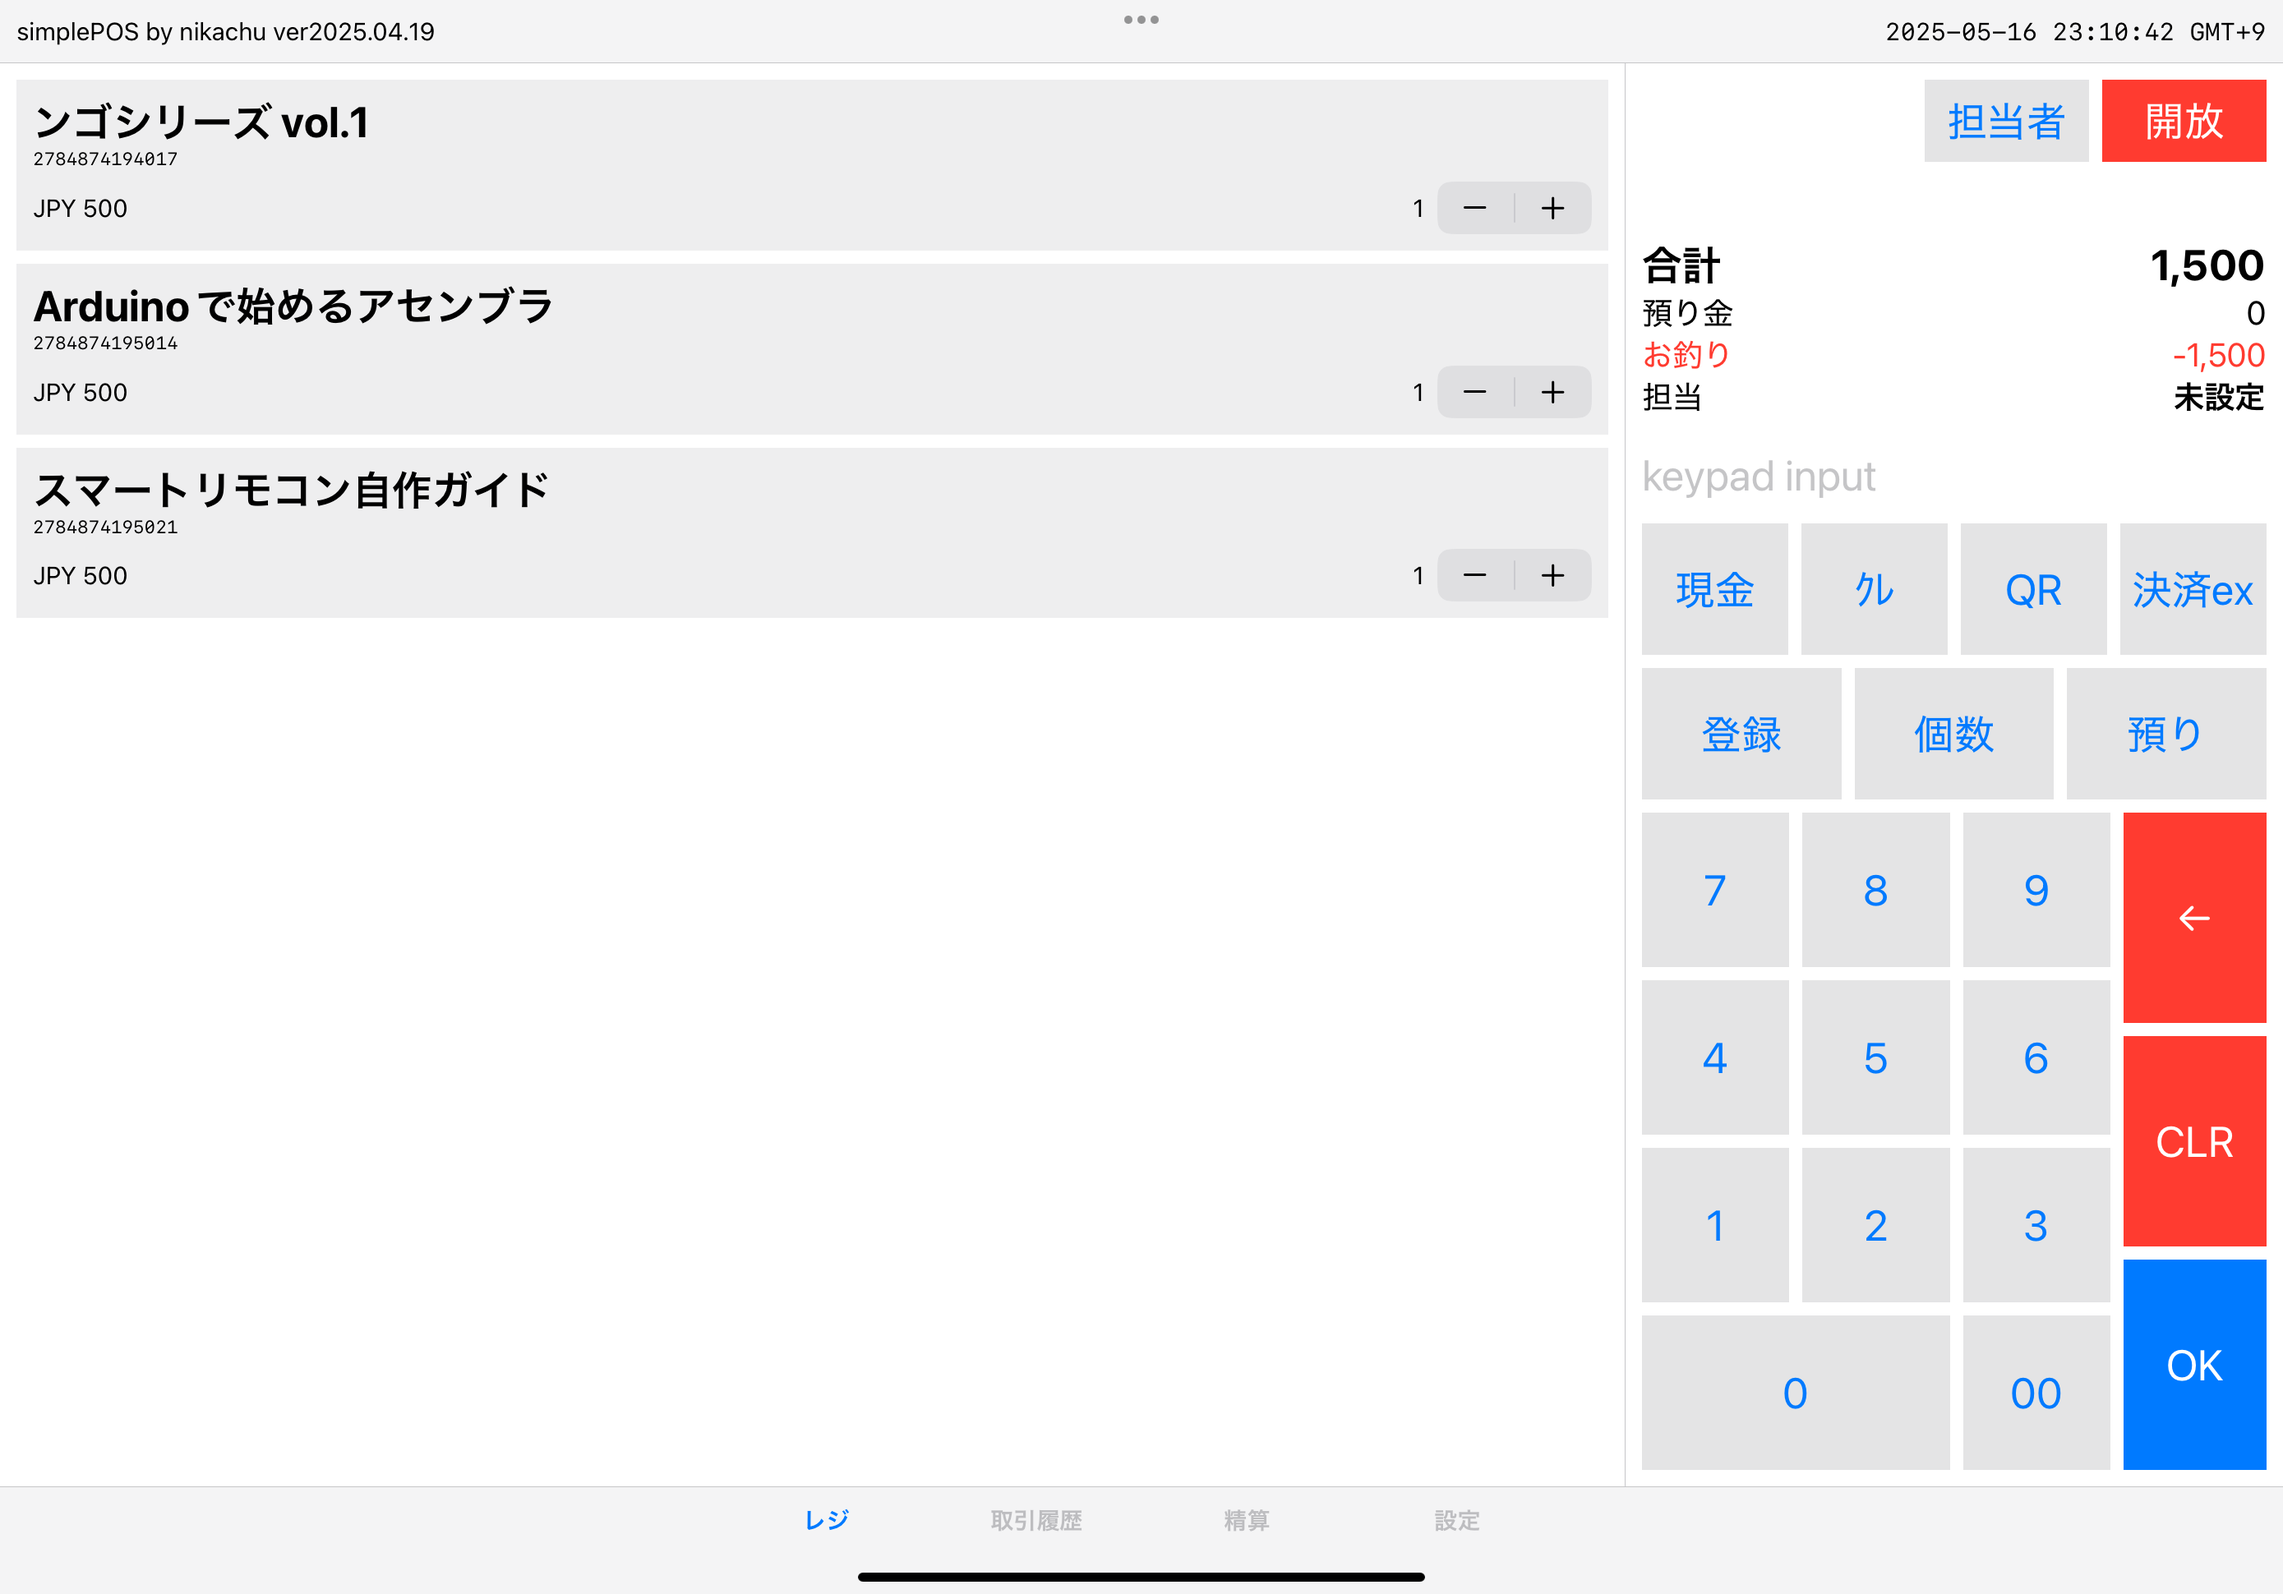
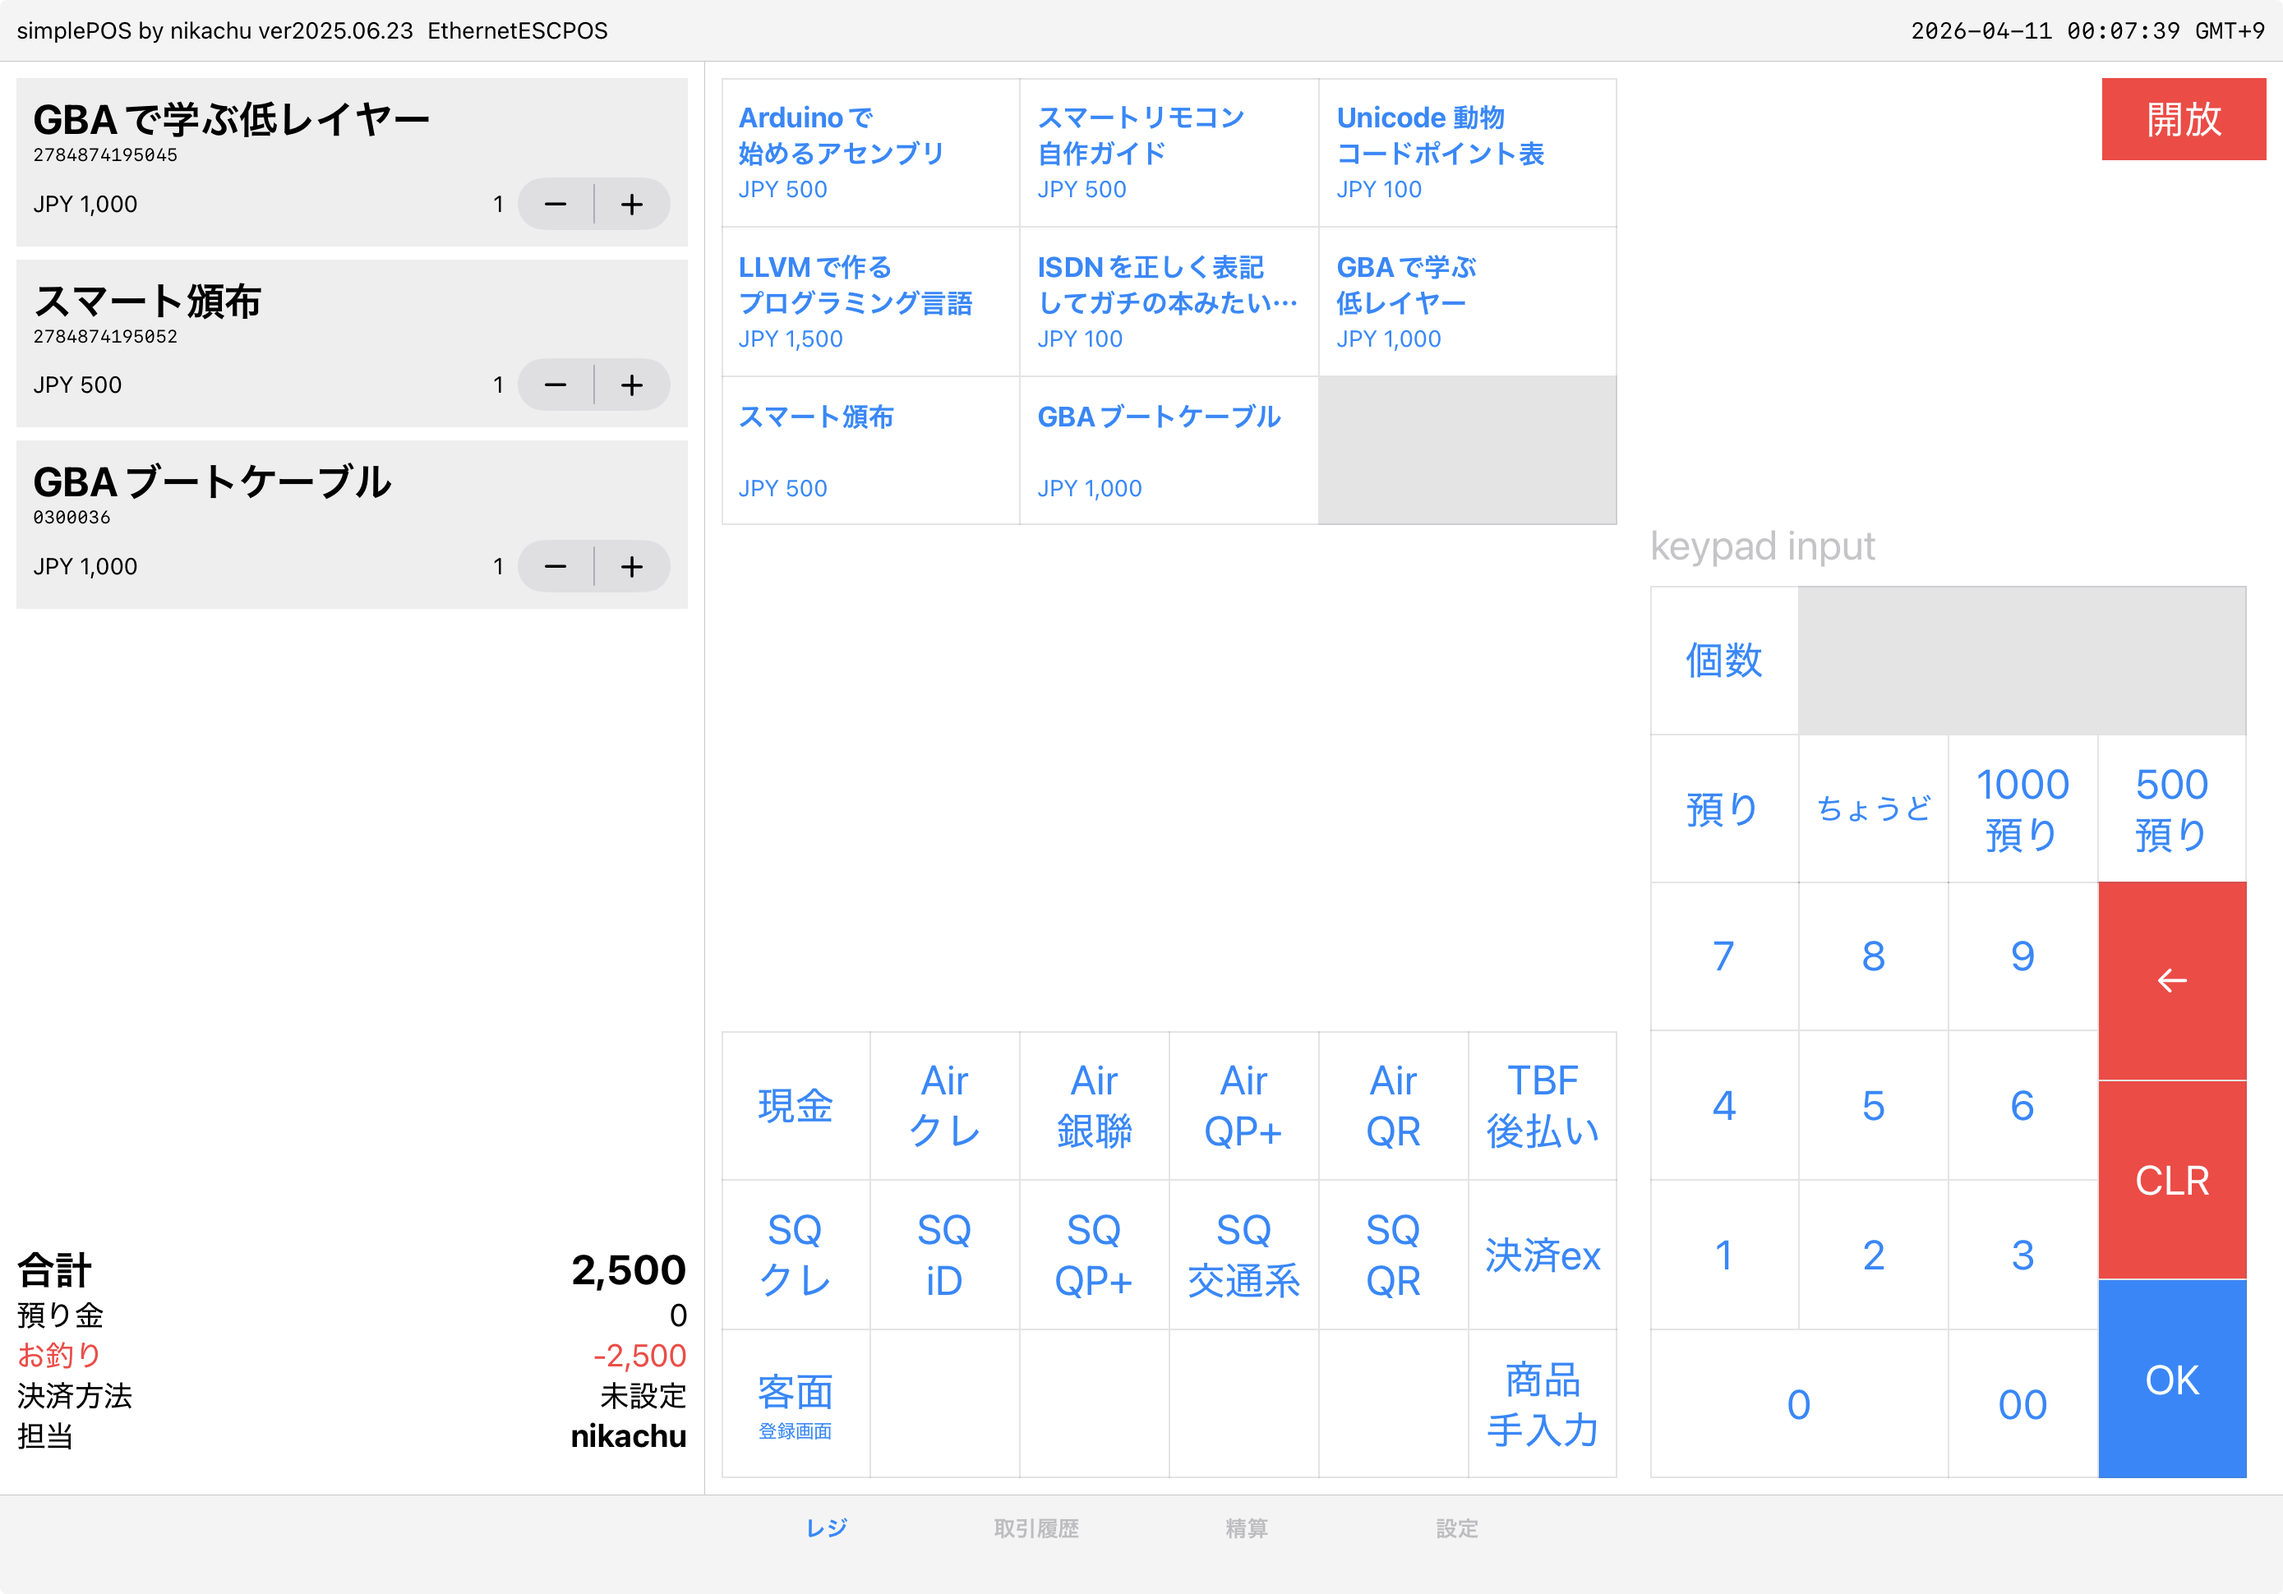
[update] 文章を最新のPOSに準拠した形に修正

diff --git a/app/(default)/forclerk/pos/page.tsx b/app/(default)/forclerk/pos/page.tsx
@@ -3,15 +3,17 @@ import HeaderFooter from "@/components/HeaderFooter";
 import Image from "next/image";
 
 import posBasicView from "./pos_basic_view.png";
-import nameTag from "./nametag.jpg";
 import readBarcode from "./read_barcode.jpg";
 import posAddItemView from "./pos_additem_view.png";
 import posAddedItem from "./pos_added_view.png";
-import paymentEx from "./paymentex.jpg";
-import azukari from "./azukari.jpg"
+import paymentMethod from "./paymentmethod.png"
+import paymentEx from "./paymentex.png";
+import azukari from "./azukari.png"
 import checkout1 from "./checkout1.jpeg"
 import airpay_credit from "./airpay_credit.png"
 import airpay_qr from "./airpay_qr.png"
+import square_kessai from "./square_kessai.jpg"
+
 import GetDateISO8601String from "@/utils/GetDateISO8601String";
 import { Metadata } from "next";
 
@@ -26,7 +28,7 @@ export default function Home() {
                 <div>
                     <h1 className="text-4xl font-bold">POSの操作方法</h1>
                     <div className="flex gap-2 flex-wrap">
-                        <span className="font-mono">{GetDateISO8601String(new Date())}</span>
+                        <span className="font-mono">{GetDateISO8601String(new Date("2026-04-11T00:30:12+09:00"))}</span>
                         <span>by nikachu</span>
                     </div>
                 </div>
@@ -61,19 +63,9 @@ export default function Home() {
                         とりあえずお客様に商品を提供できるところまでの操作を解説します。
                     </p>
 
-                    <h3 className="font-bold">担当者の登録</h3>
-
-                    <p>
-                        名札にあるQRコードをリーダで読み取るか、担当者ボタンを押した後、担当者名を選択します。名札の2025/05/17時点でのサンプルを以下に示します。
-                    </p>
-
-                    <div className="flex justify-center">
-                        <Image src={nameTag} alt={"nikatechの名札"} width={500} className="shadow" />
-                    </div>
-
                     <h3 className="font-bold">商品の登録</h3>
                     <p>
-                        商品についているバーコードを読み取るか、登録ボタンを押した後商品のボタンを押します。
+                        商品についているバーコードを読み取るか、画面上部の商品ボタンを押します。
                     </p>
                     <div className="flex justify-center">
                         <Image src={readBarcode} alt={"バーコードを読み取る"} width={400} className="shadow" />
@@ -82,15 +74,14 @@ export default function Home() {
                         <Image src={posAddItemView} alt={"POSのアイテム登録画面"} width={700} className="shadow" />
                     </div>
                     <div className="bg-yellow-200 border border-yellow-400 p-2 rounded">
-                        バーコードは登録ボタンを押した後でなくても読み取り可能です。<br />
-                        書籍のような２段バーコードの場合は上を読み取ることをお勧めします。<br />
+                        書籍のような２段バーコードの場合は上段を読み取ってください。<br />
                     </div>
                     <p>
                         複数個の登録は、直前に追加された商品の場合は、個数ボタン→キーパッドで数値を入力→<span className="text-blue-600">OK</span>で個数を増やせます。
                         それ以外の場合は一旦登録ボタンを押して登録状態を解除した後、商品名の右にあるボタンで増減できます。
                     </p>
                     <p>
-                        商品を登録し、登録状態を解除すると以下のような画面になります。
+                        商品を登録すると以下のような感じの画面になります。
                     </p>
                     <div className="flex justify-center">
                         <Image src={posAddedItem} alt={"登録済み画面"} width={700} className="shadow" />
@@ -99,17 +90,17 @@ export default function Home() {
                     <h3 className="font-bold">決済方法の指定</h3>
                     <p>
                         お客様から伺った決済方法をPOSに入力します。<br />
-                        現金、クレジット（銀聯除く）、QRコード決済は基本画面から直接入力可能です。それ以外の決済方法の場合は決済ex→決済方法の順に選択してください。
+                        基本的にSQとついている方を優先的に選択してください。ただし、QRコード決済はAirQRを選択してください。
                     </p>
 
+                    <div className="flex justify-center">
+                        <Image src={paymentMethod} alt={"決済方法"} width={700} className="shadow" />
+                    </div>
                     <p>
-                        お客様に「銀聯（ぎんれん）で」と言われた場合は、「ｸﾚ」ではなく決済ex→銀聯(Airペイ)を選択してください。
+                        それ以外の決済方法の場合は決済ex→決済方法の順に選択してください。
                     </p>
                     <div className="flex justify-center">
-                        <Image src={paymentEx} alt={"決済方法"} width={300} className="shadow" />
-                    </div>
-                    <div className="bg-red-200 border border-red-400 p-2 rounded">
-                        決済exから選択する場合、クレジット、銀聯、QRコードは&quot;（Airペイ）&quot;がついているものにしてください。
+                        <Image src={paymentEx} alt={"決済方法"} width={700} className="shadow" />
                     </div>
 
                     <h3 className="font-bold">預かり金の入力</h3>
@@ -121,25 +112,37 @@ export default function Home() {
                         <Image src={azukari} alt={"預かり金の入力"} width={300} className="shadow" />
                     </div>
                     <p>
+                        預かり金がちょうどの場合、1000円、500円の場合はそのキーを押すことで１発で入力できます。
+                    </p>
+                    <p>
                         また、預りボタンを押した後、キーパッドに何も打たずOKを押すと預かり金は合計金額と同じになります（お釣りが0になる）。
                     </p>
                     <p>
                         現金以外の決済方法では、預り金が未入力（上部預り金表示が0）でもチェックアウト（後述）することができます。
                     </p>
 
+
                     <h3 className="font-bold">チェックアウト</h3>
                     <p>
                         チェックアウトは入力した情報を確定し、データベースへ書き込む操作のことです。<br />
-                        登録、個数、預りのいずれの状態でもない時に<span className="text-blue-600">OK</span>を押すとチェックアウトへ進むことができます。
+                        個数、預りのいずれの状態でもない時に<span className="text-blue-600">OK</span>を押すとチェックアウトへ進むことができます。
                     </p>
                     <div className="flex justify-center">
                         <Image src={checkout1} alt={"チェックアウト"} width={300} className="shadow" />
                     </div>
                     <p>
                         現金の場合はお釣りが表示されるので、お釣りを用意します。<br />
-                        （Airペイ）のついたクレジット、QRコード決済の場合は自動で決済アプリへ遷移します。<br />
-                        それ以外のキャッシュレス決済の場合は、別途決済端末を操作して決済を行います。
+                        Airペイ（Air）のついたクレジット、QRコード決済の場合は自動で決済アプリへ遷移します。<br />
+                        Square（SQ）の付いた決済方法の場合は自動で決済端末が起動します。決済ステータスが<span className="text-green-600">成功</span>になるまで待ってください。<br />
+                        それ以外のキャッシュレス決済を指定された場合は、代表を呼んでください。
                     </p>
+
+                    <p>
+                        Squareの場合は決済端末（Squareターミナル）が起動するので、お客様に決済をお願いしてください。
+                    </p>
+                    <div className="flex justify-center">
+                        <Image src={square_kessai} alt={"Squareターミナルの画面"} width={400} className="shadow" />
+                    </div>
 
                     <p>
                         Airペイは自動で以下のような画面になるので、お客様に決済をお願いしてください。<br />
@@ -156,13 +159,13 @@ export default function Home() {
                         特にお客様から領収書の要望がなければ、レシート印刷ボタンを押してレシートを印刷します。印刷が止まったら切り取って商品と共に渡してください。<br />
                     </p>
                     <div className="bg-red-200 border border-red-400 p-2 rounded">
-                        クレジット、QRコードでの決済時にはお客様控えが印刷されます。必ず切り取ってからレシートを印刷してください。
+                        Airペイでの決済時にはお客様控えが印刷されます。必ず切り取ってからレシートを印刷してください。
                     </div>
                     <div className="bg-yellow-200 border border-yellow-400 p-2 rounded">
                         領収書ボタンで領収書を印刷できます。レシートと領収書はどちらか一方しか発行できません（片方を発行するとボタンが押せなくなります）。
                     </div>
                     <div className="bg-yellow-200 border border-yellow-400 p-2 rounded">
-                        クレジット・銀聯決済の場合、POSに戻った後のレシート印刷に時間がかかり、その間固まったように見えることがあります。<br />
+                        Airペイ決済の場合、POSに戻った後のレシート印刷に時間がかかり、その間固まったように見えることがあります。<br />
                         これはレシートプリンタへの再接続を待っているので、印刷されるまでそのまま待つようにしてください。
                     </div>
                     <p>
